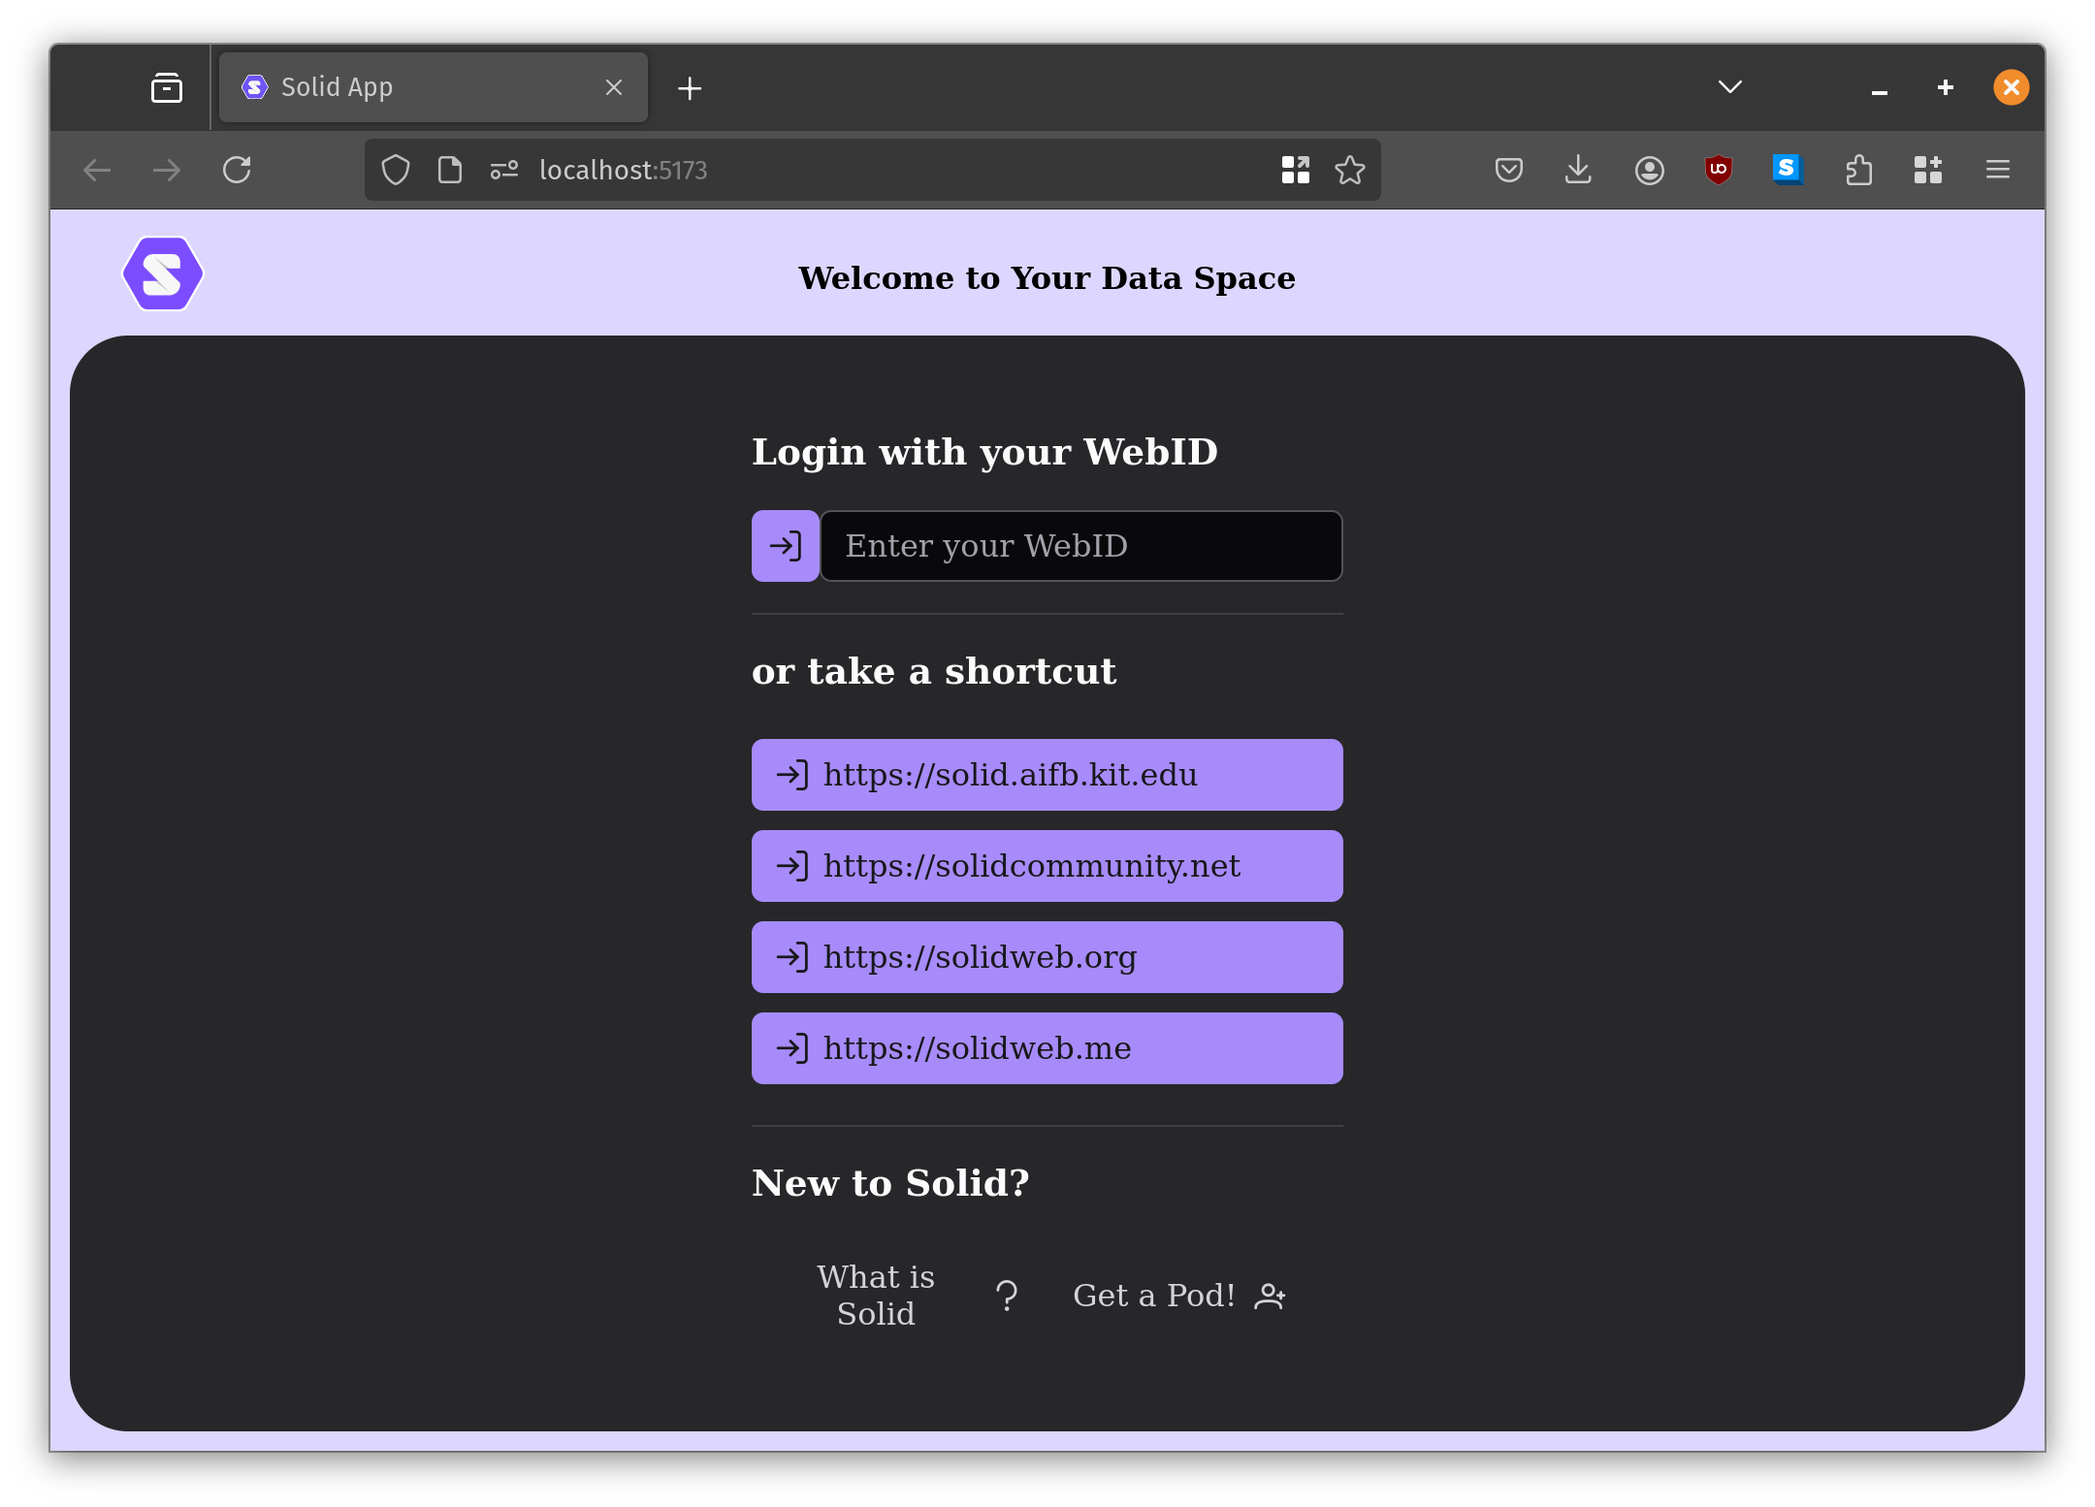
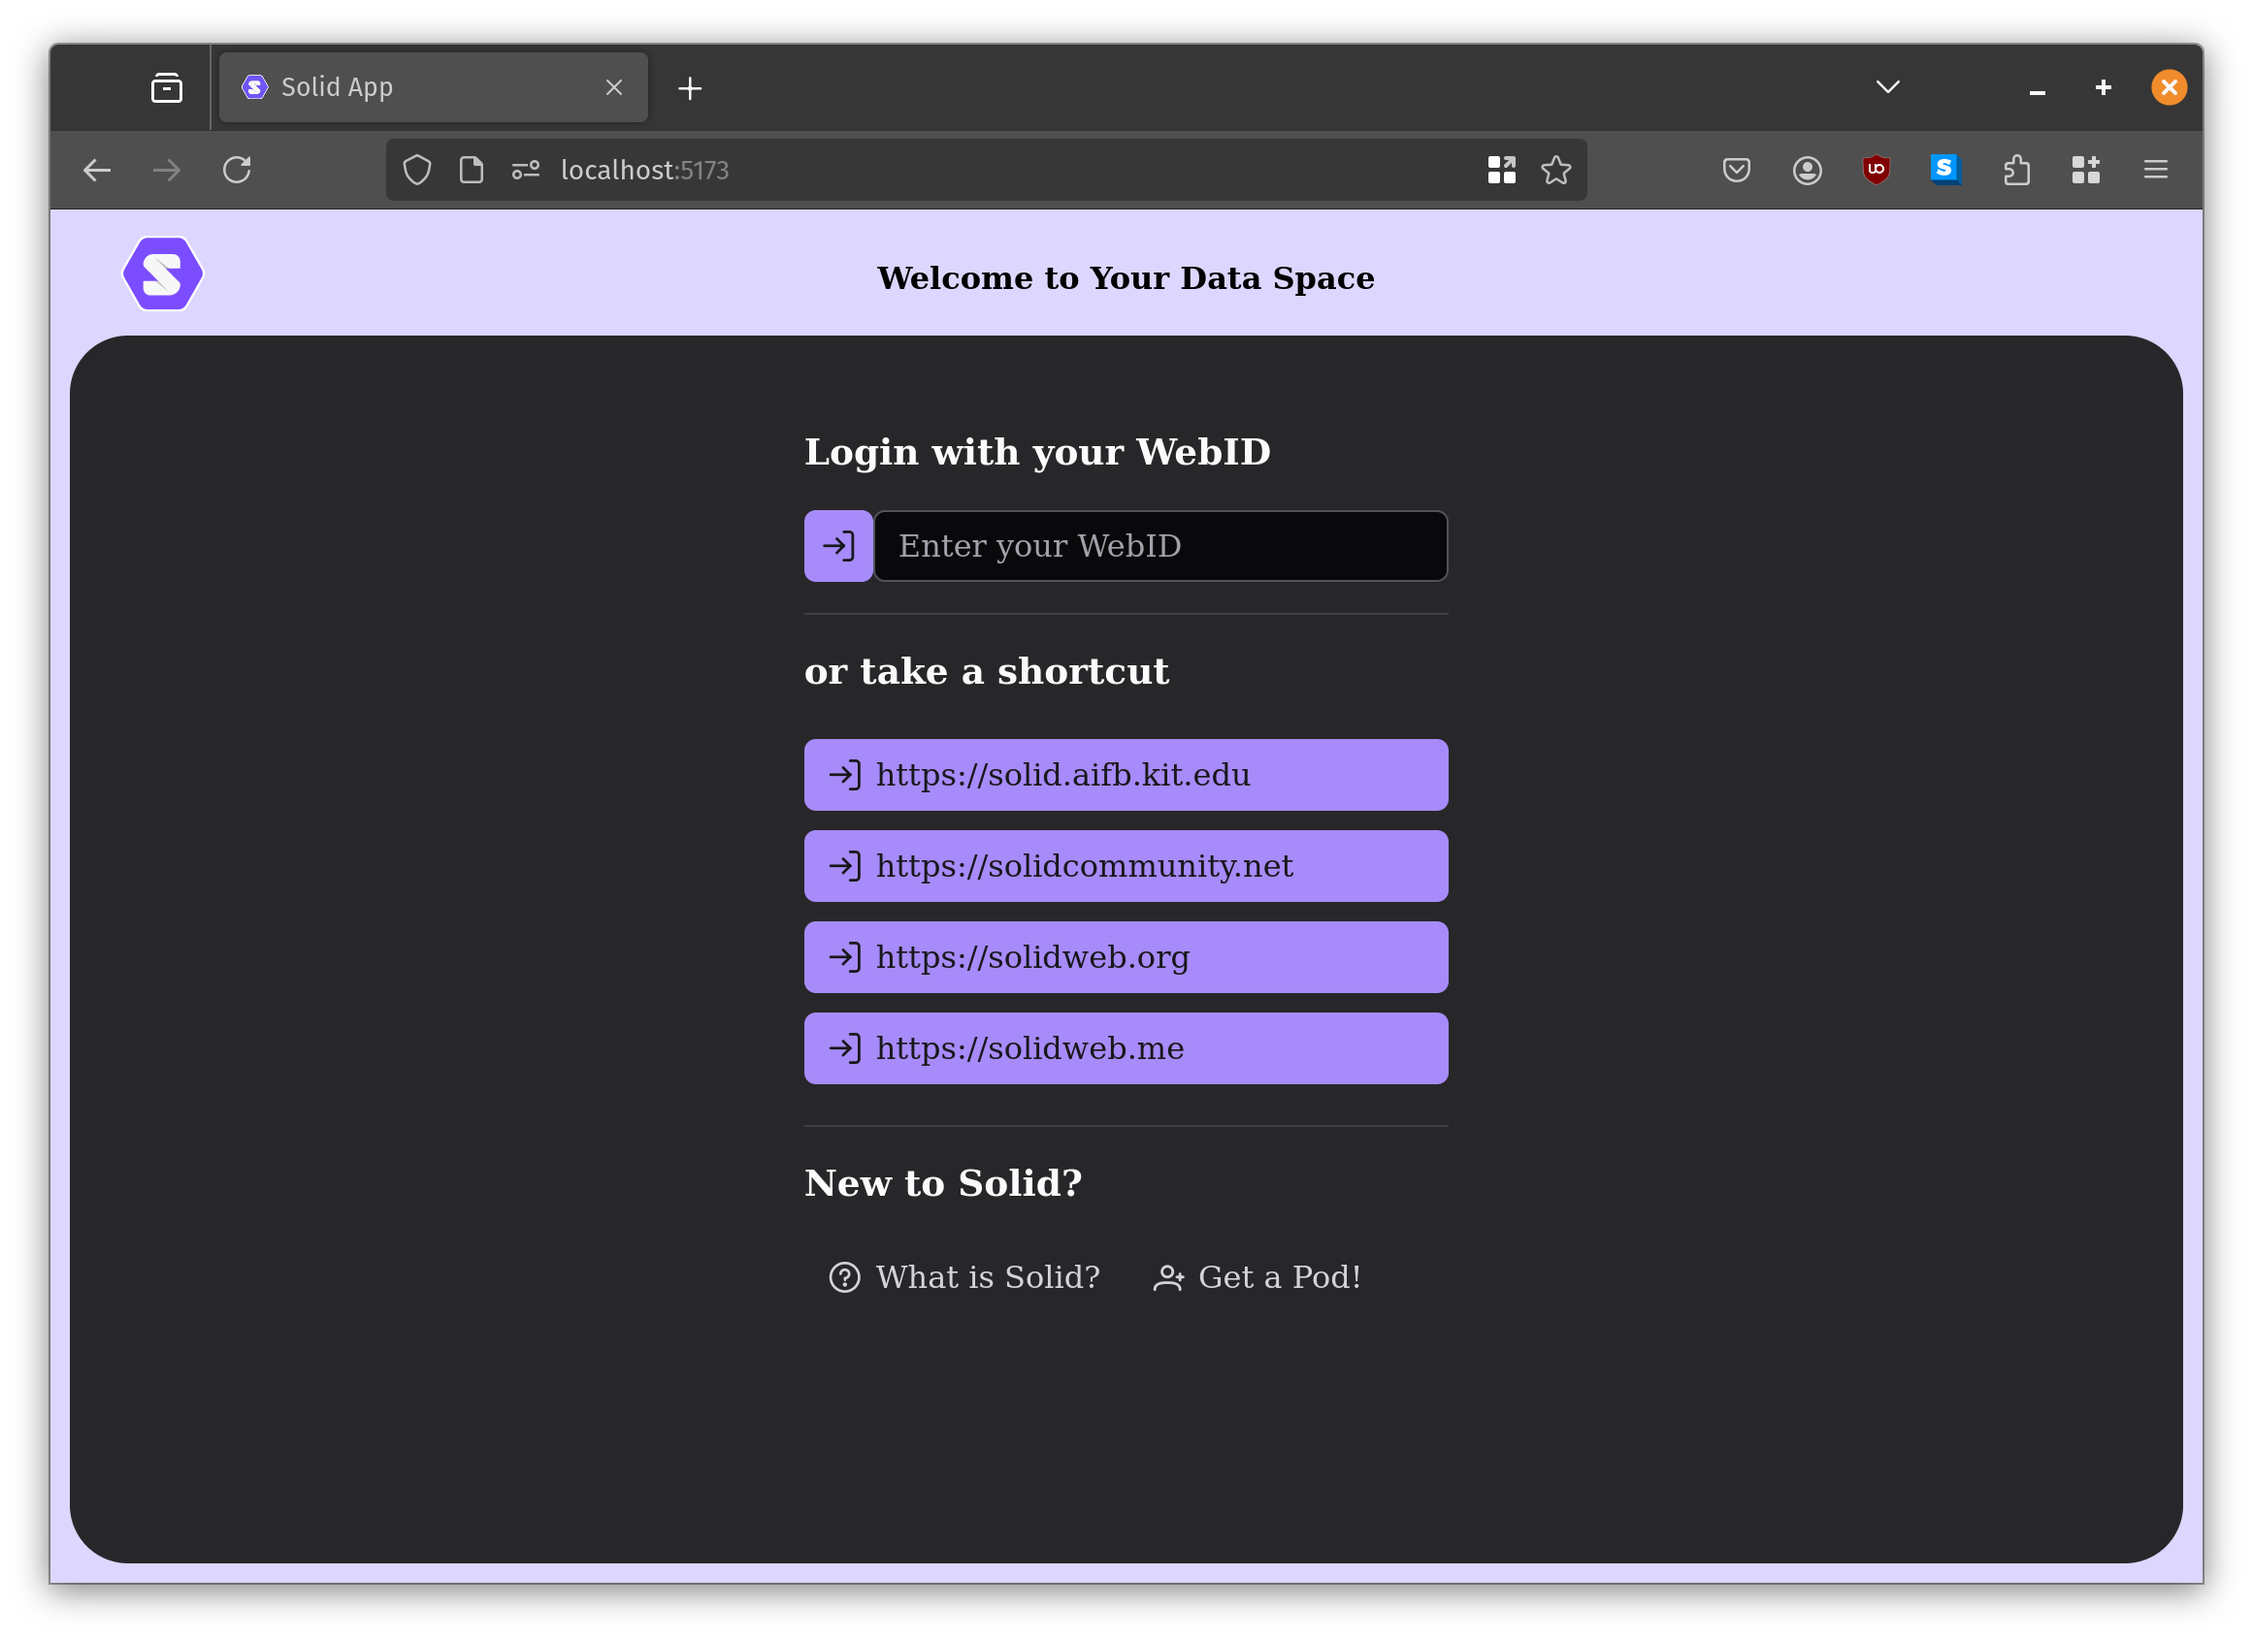
minor beautification

diff --git a/src/components/LoginPane.vue b/src/components/LoginPane.vue
@@ -112,8 +112,8 @@ function toSolid() {
   <div id="new-register-card">
     <h3>New to Solid?</h3>
     <div class="lg:flex sm:idp-button-wrapper">
-      <Button label="What is Solid" icon="pi pi-question" iconPos="right" class="p-button-secondary idp-button" @click="toSolid" />
-      <Button label="Get a Pod!" icon="pi pi-user-plus" iconPos="right" class="p-button-secondary idp-button" @click="getAPod" />
+      <Button label="What is Solid?" icon="pi pi-question-circle" class="p-button-secondary idp-button" @click="toSolid" />
+      <Button label="Get a Pod!" icon="pi pi-user-plus" class="p-button-secondary idp-button" @click="getAPod" />
     </div>
   </div>
 
